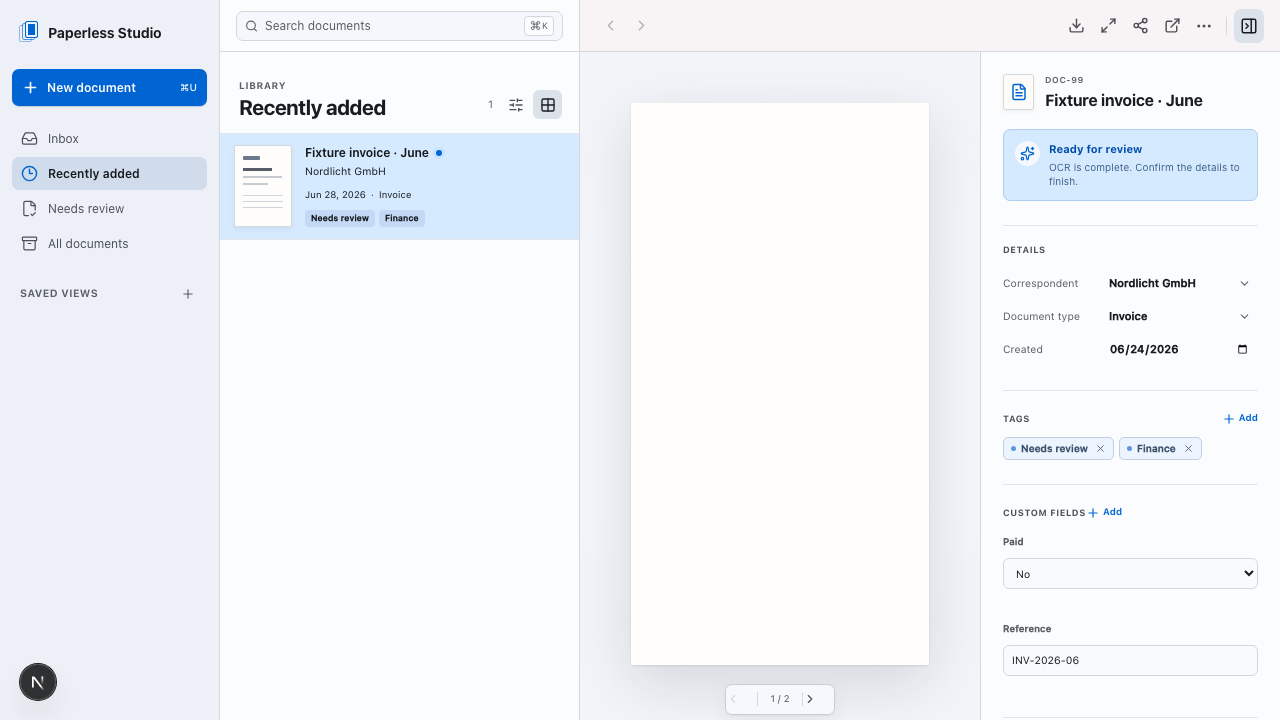
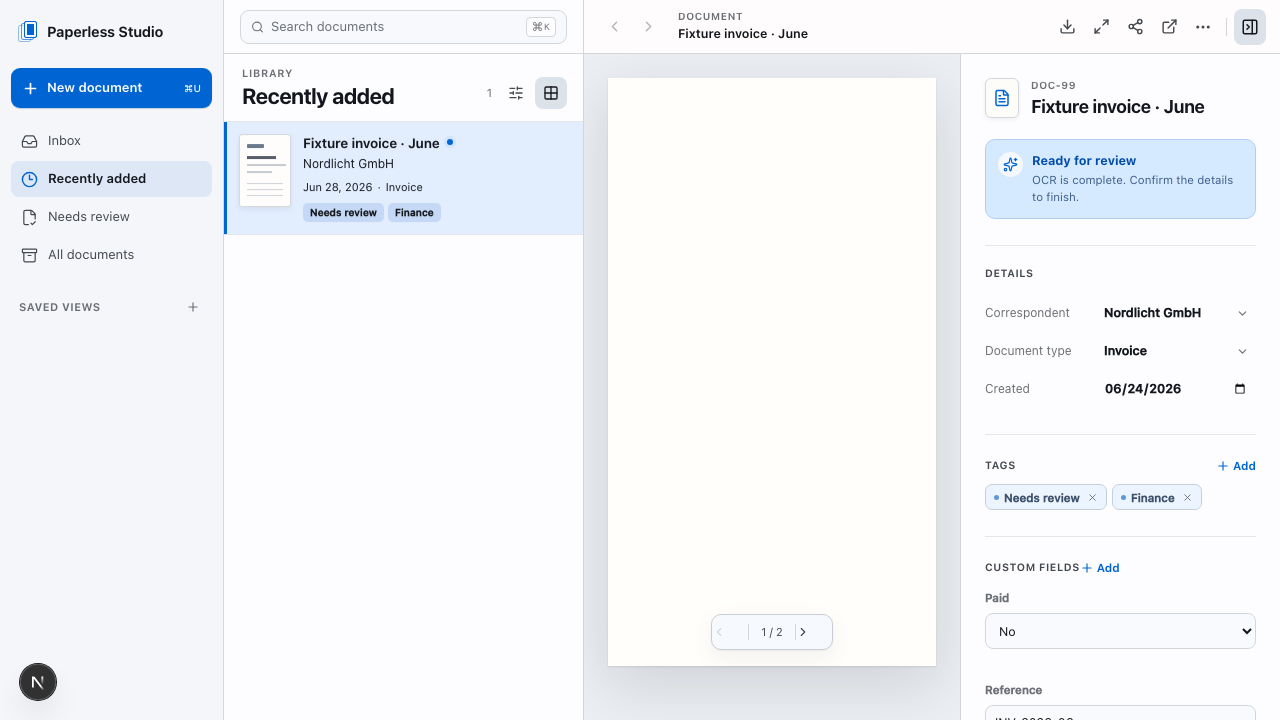
docs: refresh the workspace preview

diff --git a/tests/screenshots/workspace.spec.ts b/tests/screenshots/workspace.spec.ts
@@ -7,6 +7,11 @@ test("capture the sanitized fixture workspace", async ({ page }) => {
   await page.getByLabel("Password").fill("test-password");
   await page.getByRole("button", { name: "Sign in" }).click();
   await expect(page.getByText("Fixture invoice · June").first()).toBeVisible();
+  await expect(page.locator(".document-list")).toHaveAttribute(
+    "aria-busy",
+    "false",
+  );
+  await page.waitForTimeout(250);
   await mkdir("docs/images", { recursive: true });
   await page.screenshot({
     path: "docs/images/workspace.png",